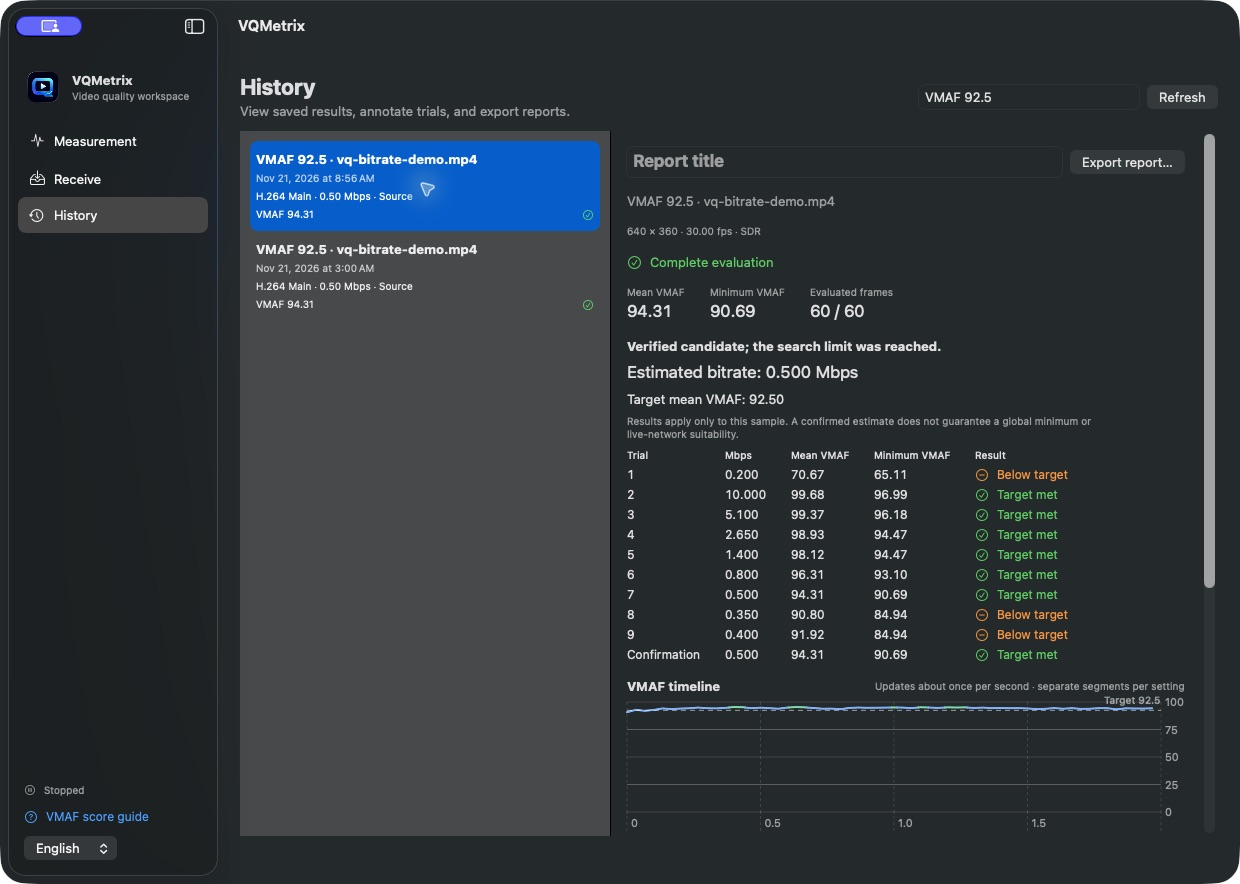
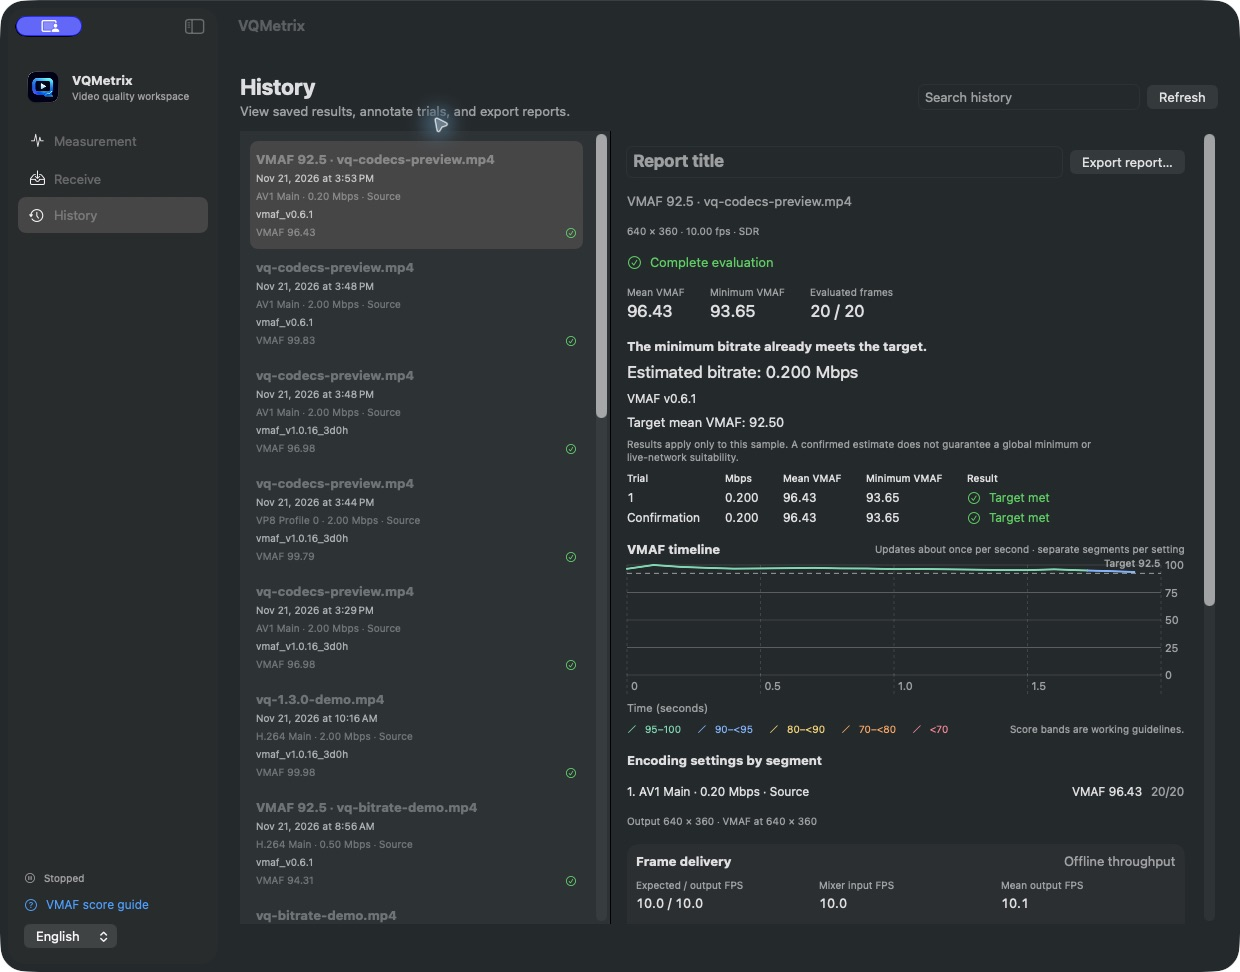
Prepare 1.4.0 with main SDK dependency and updated screenshots

diff --git a/README.md b/README.md
@@ -7,7 +7,7 @@
 
 Video quality development tools built on HaishinKit.
 
-- **macOS:** choose VMAF v1 or v0.6.1, compare reference and decoded video, change H.264/HEVC/VP8/VP8/VP9/AV1 and bitrate, inspect VMAF and encoder/sender statistics, estimate bitrate for a target mean VMAF, and review saved runs and HTML reports.
+- **macOS:** choose VMAF v1 or v0.6.1, compare reference and decoded video, change H.264/HEVC/VP8/VP9/AV1 and bitrate, inspect VMAF and encoder/sender statistics, estimate bitrate for a target mean VMAF, and review saved runs and HTML reports.
 - **Android (HaishinKit Example):** create exact YUV references from a camera or test pattern, encode bitrate variants, and prepare checksummed upload packages.
 - **Transfer:** LAN HTTP / HTTPS upload client and Bonjour discovery with a versioned package format. The macOS app receives LAN HTTP uploads, advertises Bonjour, and queues VMAF evaluations into History.
 
@@ -20,14 +20,18 @@ See the [model guide](https://haishinkit.github.io/VQMetrix/swift/documentation/
 
 ![VQMetrix macOS measurement](Assets/Screenshots/macos-measurement.png)
 
-VQMetrix 1.3.0 evaluating four synthetic 640×360 frames with VMAF v1, encoded as H.264 Main at 2 Mbps.
-The timeline shows five score bands and a target line at 92.5.
-The displayed scores belong to this run, not a general codec benchmark.
+Local AV1 Main evaluation at 2 Mbps, using VMAF v0.6.1 and twenty synthetic 640×360 frames.
+The displayed scores apply to this sample, not to AV1 in general.
+
+![VQMetrix FPS and encoder statistics](Assets/Screenshots/macos-encoder-statistics.png)
+
+Inspect input/output FPS, queueing, drops, and pipeline latency alongside native encoder timing.
+The timeline shows five score bands and a target line at 92.5. Statistics are saved per segment in History and HTML reports.
 
 ![VQMetrix bitrate search history](Assets/Screenshots/macos-bitrate-search.png)
 
-A saved v0.6.1 search from 1.2.0 targeting mean VMAF 92.5, including all attempts and confirmation.
-The 0.5 Mbps estimate applies to this sample; the trial limit was reached before the requested precision.
+A saved AV1/v0.6.1 search targeting mean VMAF 92.5. The configured lower bound of
+0.2 Mbps met the target and passed confirmation for this sample; it is not a global minimum.
 See the [bitrate search guide](https://haishinkit.github.io/VQMetrix/swift/documentation/vqmetrix/bitratesearch/).
 
 ![VQMetrix macOS device receiver](Assets/Screenshots/macos-receiver.png)
@@ -41,7 +45,7 @@ evaluated serially, and saved to History with HTML report export.
 Add JitPack to the consuming project's repositories, then use:
 
 ```kotlin
-implementation("com.github.HaishinKit:VQMetrix:1.3.0")
+implementation("com.github.HaishinKit:VQMetrix:1.4.0")
 ```
 
 See [Android installation](Android/README.md) for the complete repository setup.
@@ -51,7 +55,7 @@ Capture/encoding UI lives in HaishinKit.kt Example (API 29+).
 ## 🚀 Build
 
 macOS builds use HaishinKit.swift beside this checkout at the revision in
-[Support/dependencies.json](Support/dependencies.json), then prepare their development adapters. The current pin combines the unreleased VPXHaishinKit and AOMHaishinKit development PRs; it is not an SDK release tag:
+[Support/dependencies.json](Support/dependencies.json), then prepare their development adapters. The pin references HaishinKit.swift main with VPXHaishinKit and AOMHaishinKit merged; it is a commit reference rather than an SDK release tag:
 
 ```sh
 ruby Scripts/prepare_dependencies.rb swift
@@ -97,7 +101,7 @@ is experimental; capture availability depends on the device and environment.
 
 ## 📦 Development builds
 
-The `1.3.0` tag attaches a macOS ZIP, Android transfer library, API documentation, and
+The `1.4.0` tag attaches a macOS ZIP, Android transfer library, API documentation, and
 checksums to [GitHub Release](https://github.com/HaishinKit/VQMetrix/releases). macOS builds
 are ad hoc signed and not notarized. Android Example APK distribution is managed by HaishinKit.kt.
 

diff --git a/Documentation/VQMetrix.docc/UserGuide.md b/Documentation/VQMetrix.docc/UserGuide.md
@@ -57,7 +57,7 @@ For source development, set `vqmetrixTransferDir` to VQMetrix/Android/transfer.
 
 ## Interpreting results
 
-VQMetrix 1.3.0 selects VMAF v1 by default, with v0.6.1 available for comparison. The model is fixed for each run. v1 uses 10-bit evaluation at a short-side-1080 display size; v0.6.1 keeps source-size 8-bit evaluation. Local measurement excludes network delivery and receiver/player behavior. See the DocC model-selection guide for preprocessing and comparison limits.
+VQMetrix 1.4.0 selects VMAF v1 by default, with v0.6.1 available for comparison. The model is fixed for each run. v1 uses 10-bit evaluation at a short-side-1080 display size; v0.6.1 keeps source-size 8-bit evaluation. Local measurement excludes network delivery and receiver/player behavior. See the DocC model-selection guide for preprocessing and comparison limits.
 
 Queues are bounded. A partial run's score covers only evaluated frames, and temporal
 gaps alter motion features. Compare complete runs and matching source/model conditions.

diff --git a/Documentation/VQMetrix.docc/UnderstandingVMAF.md b/Documentation/VQMetrix.docc/UnderstandingVMAF.md
@@ -8,7 +8,7 @@ score generally means the candidate is closer to the reference under the model's
 assumptions. It is not the percentage of pixels preserved or the percentage of viewers
 who will approve the picture.
 
-VQMetrix 1.3.0 defaults to **vmaf_v1.0.16_3d0h** and also offers **vmaf_v0.6.1**. Both selected models use a **0–100** working range; see <doc:EvaluationModels>. Other models and options
+VQMetrix 1.4.0 defaults to **vmaf_v1.0.16_3d0h** and also offers **vmaf_v0.6.1**. Both selected models use a **0–100** working range; see <doc:EvaluationModels>. Other models and options
 can have different assumptions or ranges. Record the model and libvmaf version with results.
 Even a video compared with itself need not score exactly 100.
 

diff --git a/Android/README.md b/Android/README.md
@@ -25,11 +25,11 @@ In the consuming module:
 
 ```kotlin
 dependencies {
-    implementation("com.github.HaishinKit:VQMetrix:1.3.0")
+    implementation("com.github.HaishinKit:VQMetrix:1.4.0")
 }
 ```
 
-`1.3.0` is the release tag and dependency version; do not add a `v` prefix.
+`1.4.0` is the release tag and dependency version; do not add a `v` prefix.
 The library does not enable cleartext traffic globally. The host app must explicitly
 allow LAN HTTP when using the built-in Mac receiver and request local-network permission
 on Android versions that require it. HTTPS uses the platform trust store.

diff --git a/Documentation/VQMetrix.docc/Localization/ja.lproj/EvaluationModels.md b/Documentation/VQMetrix.docc/Localization/ja.lproj/EvaluationModels.md
@@ -1,6 +1,6 @@
 # VMAFモデルを選ぶ
 
-VQMetrix 1.3.0では、libvmaf 3.2.0を使い、2種類のSDRモデルを選択できます。
+VQMetrix 1.4.0では、libvmaf 3.2.0を使い、2種類のSDRモデルを選択できます。
 
 | 選択 | モデル識別子 | 評価処理 |
 | --- | --- | --- |

diff --git a/Documentation/VQMetrix.docc/EvaluationModels.md b/Documentation/VQMetrix.docc/EvaluationModels.md
@@ -1,6 +1,6 @@
 # Choose a VMAF model
 
-VQMetrix 1.3.0 offers two explicitly identified SDR models, using libvmaf 3.2.0.
+VQMetrix 1.4.0 offers two explicitly identified SDR models, using libvmaf 3.2.0.
 
 | Selection | Model identifier | Evaluation |
 | --- | --- | --- |
